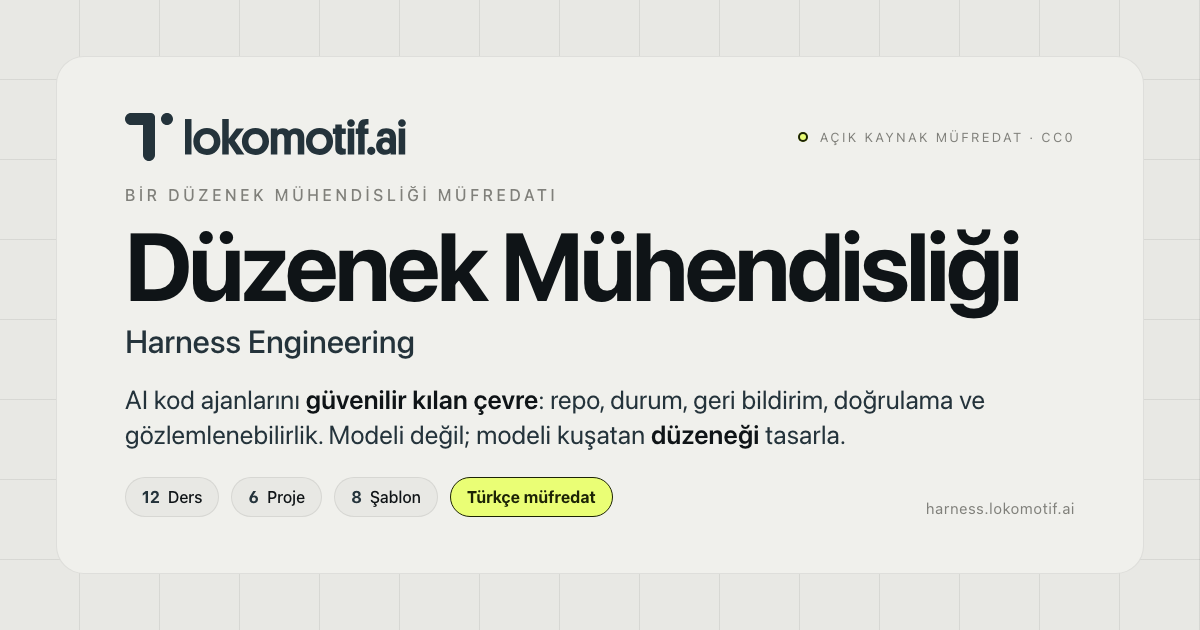
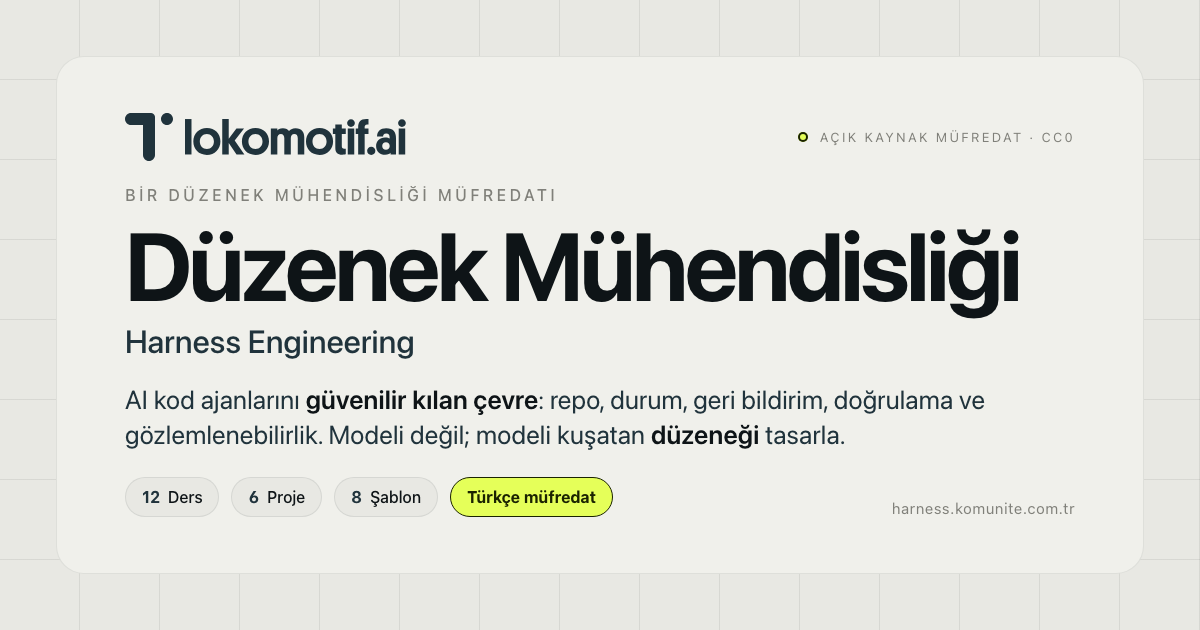
chore: komunite org'una taşınma + harness.komunite.com.tr domain migration (#1)
- Tüm github.com/lokomotifai referansları github.com/komunite'ye güncellendi
- harness.lokomotif.ai → harness.komunite.com.tr (CLAUDE.md, README,
  docs.json, LICENSE, SECURITY, CONTRIBUTING, issue template, skill-pack)
- og-cover.html URL güncellendi, og-cover.png yeniden render edildi
- CHANGELOG: taşınma kaydı + yinelenen boş başlıklar temizlendi
- MEMORY.md: Faz 12 + faz endeksi + sıradaki adımlar güncellendi

diff --git a/images/og-cover.html b/images/og-cover.html
@@ -219,7 +219,7 @@
         <div class="chip"><span class="num">8</span> Şablon</div>
         <div class="chip cta">Türkçe müfredat</div>
       </div>
-      <div class="url">harness.lokomotif.ai</div>
+      <div class="url">harness.komunite.com.tr</div>
     </div>
 
   </div>

diff --git a/MEMORY.md b/MEMORY.md
@@ -23,6 +23,8 @@ burada yaşar.
 | 8 | 2026-05-19 | [Skill paketi + SEO/OG + deploy hazırlığı](#8-2026-05-19--skill-paketi--seoog--deploy-hazirligi) |
 | 9 | 2026-05-19 | [Açık kaynak hijyeni + CLAUDE/MEMORY](#9-2026-05-19--acik-kaynak-hijyeni--claudememory) |
 | 10 | 2026-05-19 | [Diyagram redesign + README cila](#10-2026-05-19--diyagram-redesign--readme-cila) |
+| 11 | 2026-05-21 | [Diyagram mobil uyumu + dark logo](#11-2026-05-21--diyagram-mobil-uyumu--dark-logo) |
+| 12 | 2026-08-15 | [komunite org'una taşınma + yeni domain](#12-2026-08-15--komunite-orguna-tasinma--yeni-domain) |
 
 ## Terim haritası
 
@@ -57,14 +59,21 @@ sonradan elle düzeltildi.
 
 ## Sıradaki adımlar
 
-- [x] Mintlify Cloud üzerinde deploy edildi
-  (`harness.lokomotif.ai`); Vercel proxy yaklaşımı bırakıldı.
+- [x] Mintlify Cloud üzerinde deploy edildi; Vercel proxy yaklaşımı
+  bırakıldı.
+- [ ] Mintlify dashboard'da custom domain'i
+  `harness.komunite.com.tr` olarak değiştir + deployment'ın
+  `komunite/harness-docs` repo'suna bağlı olduğunu doğrula
+  (dashboard login gerektirdiği için manuel; DNS CNAME hazır).
+- [ ] Yeni domain canlıya alındıktan sonra `harness.lokomotif.ai` →
+  `harness.komunite.com.tr` 301 redirect kur (Cloudflare Redirect
+  Rule; eski kayıt proxied'a çevrilmeli). SEO için önemli.
 - [x] 12 dersin diyagramları yeniden tasarlandı; SVG sanitizer
   sorunundan dolayı tamamı pure HTML/CSS'e geçirildi.
 - [x] README global standartlarda yeniden yazıldı + OG cover hero
   olarak eklendi.
 - [ ] OG image production'da çalıştığını kontrol et — `og:image`
-  meta'sındaki URL `harness.lokomotif.ai/images/og-cover.png`
+  meta'sındaki URL `harness.komunite.com.tr/images/og-cover.png`
   olmalı; debugger: https://www.opengraph.xyz/url/
 - [ ] `mint validate` ve `mint broken-links`'i CI'da koştur (workflow
   bunu yapıyor; ilk PR'da görüleceğiz).
@@ -604,3 +613,41 @@ swap'ını otomatik yapıyor; ek config gerekmedi.
 ### Commits
 
 - (bu commit) — `fix:` mobil diyagram override + dark logo.
+
+## 12. 2026-08-15 — komunite org'una taşınma + yeni domain
+
+**Hedef**: Repo `lokomotifai` → `komunite` GitHub org'una, yayın
+adresi `harness.lokomotif.ai` → `harness.komunite.com.tr`.
+
+### Yapılanlar
+
+- GitHub transfer: `gh api repos/lokomotifai/harness-docs/transfer
+  -f new_owner=komunite`. Eski URL'ler GitHub tarafından otomatik
+  redirect ediliyor; local remote yine de güncellendi.
+- Repo içindeki tüm `github.com/lokomotifai` ve
+  `harness.lokomotif.ai` referansları güncellendi (docs.json,
+  README, CONTRIBUTING, LICENSE, SECURITY, CLAUDE.md, issue
+  template, skill-pack). CHANGELOG'daki tarihsel satırlar
+  bilinçli olarak korundu.
+- `images/og-cover.html` içindeki URL değişti;
+  `og-cover.png` chrome-headless-shell ile yeniden render edildi
+  (1200×630). Sol üstteki lokomotif.ai logosu marka kararı
+  netleşene kadar korundu.
+- Cloudflare `komunite.com.tr` zone'una CNAME eklendi:
+  `harness` → `cname.mintlify.builders`, **DNS only** (Mintlify
+  proxy istemiyor; eski lokomotif.ai kaydı da DNS only idi).
+- GitHub repo metadata: homepage `harness.komunite.com.tr`,
+  description + 12 topic dolduruldu (eski "Sıradaki adımlar"
+  maddesiydi).
+- Mintlify GitHub App'in `komunite` org'unda **zaten kurulu**
+  olduğu doğrulandı (`gh api orgs/komunite/installations`).
+
+### Bekleyenler
+
+Mintlify dashboard login gerektirdiği için iki adım manuel kaldı:
+custom domain değişikliği + repo bağlantısı doğrulaması ve
+sonrasında eski domain'den 301 redirect ("Sıradaki adımlar"da).
+
+### Commits
+
+- (bu commit) — `chore:` org taşınması + domain migration.

diff --git a/CHANGELOG.md b/CHANGELOG.md
@@ -12,18 +12,16 @@ Format [Keep a Changelog](https://keepachangelog.com/) ve sürümleme
   özel alan adı.
 
 ### Değişenler
+- Repo `lokomotifai` org'undan `komunite` org'una taşındı:
+  [github.com/komunite/harness-docs](https://github.com/komunite/harness-docs).
+- Yayın adresi `harness.lokomotif.ai` → `harness.komunite.com.tr`
+  olarak değişti; repo içindeki tüm URL referansları güncellendi.
 - Vercel proxy yaklaşımı bırakıldı; Mintlify Cloud doğrudan host eder.
 
 ### Düzeltmeler
 - CI: MDX safety scan ve broken-links artık `skill-pack/` ile
   `projeler/*/{starter,solution}/` workspace dosyalarını atlıyor;
   bu dizinler Mintlify tarafından sunulmuyor.
-
-### Değişenler
-- _henüz yok_
-
-### Düzeltmeler
-- _henüz yok_
 
 ---
 
@@ -83,5 +81,5 @@ Format [Keep a Changelog](https://keepachangelog.com/) ve sürümleme
 Bu sürüm tamamen Türkçe içerikle gönderildi. İngilizce çeviri sonraki
 sürümlerin konusu.
 
-[Unreleased]: https://github.com/lokomotifai/harness-docs/compare/v1.0.0...HEAD
-[1.0.0]: https://github.com/lokomotifai/harness-docs/releases/tag/v1.0.0
+[Unreleased]: https://github.com/komunite/harness-docs/compare/v1.0.0...HEAD
+[1.0.0]: https://github.com/komunite/harness-docs/releases/tag/v1.0.0

diff --git a/CONTRIBUTING.md b/CONTRIBUTING.md
@@ -13,7 +13,7 @@ ve **terim/stil rehberine uyuyorsa** memnuniyetle karşılanır.
 ## Hızlı başlangıç
 
 ```bash
-git clone https://github.com/lokomotifai/harness-docs.git
+git clone https://github.com/komunite/harness-docs.git
 cd harness-docs
 npm install -g mint
 mint dev                  # http://localhost:3000
@@ -132,7 +132,7 @@ Bir güvenlik açığı bulduysan **kamuya açık issue açma**.
 ## Deploy
 
 Site **Mintlify Cloud**'da host edilir. Özel alan adı:
-[harness.lokomotif.ai](https://harness.lokomotif.ai). Üretim deploy'ı
+[harness.komunite.com.tr](https://harness.komunite.com.tr). Üretim deploy'ı
 yalnızca `main` dalına push olunca tetiklenir (otomatik).
 
 Production'a doğrudan dokunma; her zaman PR.

diff --git a/SECURITY.md b/SECURITY.md
@@ -15,7 +15,7 @@ Bir güvenlik açığı bulduysan **kamuya açık issue açma**. Şu kanallardan
 gizli ulaş:
 
 - **E-posta**: `security@lokomotif.ai`
-- **GitHub Security Advisory**: [Yeni özel rapor](https://github.com/lokomotifai/harness-docs/security/advisories/new)
+- **GitHub Security Advisory**: [Yeni özel rapor](https://github.com/komunite/harness-docs/security/advisories/new)
 - **PGP** (isteğe bağlı): anahtar `https://lokomotif.ai/.well-known/pgp.txt`
 
 Raporunda en azından şunlar olsun:

diff --git a/CLAUDE.md b/CLAUDE.md
@@ -9,7 +9,7 @@ gerektiğini söyler.
 **Düzenek Mühendisliği (Harness Engineering)** — AI kod ajanlarını
 güvenilir kılan çevreyi tasarlayan Türkçe açık kaynak müfredat.
 12 ders + 6 proje + 8 şablon + skill paketi. **Mintlify Cloud** üzerinde
-[harness.lokomotif.ai](https://harness.lokomotif.ai) adresinde host
+[harness.komunite.com.tr](https://harness.komunite.com.tr) adresinde host
 edilir; `main`'e push → otomatik deploy.
 
 ## Hızlı başlangıç

diff --git a/skill-pack/duzenek-yaratici/SKILL.md b/skill-pack/duzenek-yaratici/SKILL.md
@@ -4,7 +4,7 @@ display_name: Düzenek Yaratıcı (Harness Creator)
 description: Üretim kalitesinde bir AI ajan düzeneği (harness) inşa etmeyi taslaktan iterasyona taşıyan yetenek paketi.
 version: 1.0.0
 language: tr
-homepage: https://github.com/lokomotifai/harness-docs
+homepage: https://github.com/komunite/harness-docs
 tags: [harness-engineering, claude-code, codex, agents]
 compatibility:
   - claude-code
